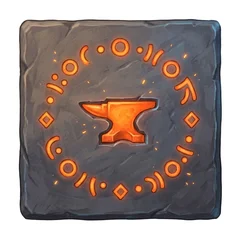
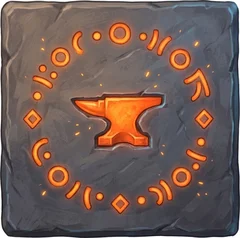
Dice Arena : Rune de l'enclume sans fond blanc ; ordre des prompts (version 20261114-132235)

diff --git a/essais/dice-arena/prompts.html b/essais/dice-arena/prompts.html
@@ -17,7 +17,7 @@ button{font-size:1em;padding:9px 16px;border-radius:10px;border:0;background:#f5
 .recus{columns:2;font-size:.85em;color:#9ff0b5}</style></head><body><main>
 <h1>Les images à faire pour la Guilde des Runes</h1><p class="sous">Une seule liste pour tout (menu, cartes, combats, Odyssée) · mise à jour le 14/11/2026</p>
 <div class="compte"><span>✅ Reçues : <b>191</b></span><span>⏳ Il reste : <b>8</b></span><span>Total : 199</span></div>
-<div class="maintenant"><h2>👉 À faire maintenant, dans cet ordre</h2><ol></ol>
+<div class="maintenant"><h2>👉 À faire maintenant, dans cet ordre</h2><ol><li><a href="#i-d-gobelin" onclick="ouvre('d-gobelin')">Défense · le Gobelin (rapide)</a></li><li><a href="#i-d-chauve" onclick="ouvre('d-chauve')">Défense · la Chauve-souris (vole)</a></li><li><a href="#i-rune-cor" onclick="ouvre('rune-cor')">Défense · la Rune de Gorm, le Grand Cor</a></li></ol>
 <p style="margin:.5em 0 0;font-size:.9em">Le reste peut attendre : ce sont les 5 images qui débloquent le plus de choses dans le jeu.</p></div>
 <div class="regle"><b>Pour chaque image :</b><ul><li>une <b>nouvelle conversation Gemini</b> ;</li><li>joindre <b>une seule image</b> : celle indiquée dans le cadre jaune (le plus souvent le portrait de Gorm) ;</li>
 <li>coller le prompt, ne rien retoucher : si l’image ne va pas, on refait un prompt de zéro ;</li><li>m’envoyer l’image en me donnant le <b>nom du fichier</b> indiqué : je la range et elle passe en ✅ ici.</li></ul></div><details id="s-menu-communs"><summary>✅ Menu · les pièces communes <span class="n">3 / 3 reçues</span></summary>
@@ -223,7 +223,7 @@ button{font-size:1em;padding:9px 16px;border-radius:10px;border:0;background:#f5
 <div class="note">💬 À REFAIRE (13/11 soir, remarque de l'utilisateur) : pas assez de magie ni de grandiose ; prompt corrigé.</div></div><div class="bloc ok" id="i-inv-acte2"><img src="prompts-recu/inv-acte2.webp?v=-637785471" alt=""><h3>✅ Portail · Invasion Acte II, le Réveil des Primordiaux</h3><div class="fichier">Nom du fichier à m'envoyer : <b>inv-acte2</b></div>
 <div class="note">💬 À REFAIRE (13/11 soir, remarque de l'utilisateur) : pas assez de magie ni de grandiose ; prompt corrigé.</div></div><div class="bloc ok" id="i-inv-boss"><img src="prompts-recu/inv-boss.webp?v=-637785468" alt=""><h3>✅ Portail · Invasion, les grands boss</h3><div class="fichier">Nom du fichier à m'envoyer : <b>inv-boss</b></div>
 <div class="note">💬 À REFAIRE (13/11 soir, remarque de l'utilisateur) : pas assez de magie ni de grandiose ; prompt corrigé.</div></div><div class="bloc ok" id="i-mode-pantheon"><img src="prompts-recu/mode-pantheon.webp?v=-637785463" alt=""><h3>✅ Portail · Le Panthéon</h3><div class="fichier">Nom du fichier à m'envoyer : <b>mode-pantheon</b></div>
-<div class="note">💬 À REFAIRE (13/11 soir, remarque de l'utilisateur) : pas assez de magie ni de grandiose ; prompt corrigé.</div></div></details></details><details id="s-defense-enigme-13-11"><summary>Nouveautés du 13/11 · L’énigme du jour et la Défense de la porte <span class="n">7 / 10 reçues</span></summary>
+<div class="note">💬 À REFAIRE (13/11 soir, remarque de l'utilisateur) : pas assez de magie ni de grandiose ; prompt corrigé.</div></div></details></details><details id="s-defense-enigme-13-11" open><summary>Nouveautés du 13/11 · L’énigme du jour et la Défense de la porte <span class="n">7 / 10 reçues</span></summary>
 <p class="expl">Deux portails pour le menu, les monstres de la Défense (portraits ronds), le Titan de feu, les deux Runes et le fond du plateau.</p><div class="bloc" id="i-d-gobelin"><h3>Défense · le Gobelin (rapide)</h3><div class="fichier">Nom du fichier à m'envoyer : <b>d-gobelin</b></div>
 <div class="note">💬 À REFAIRE (14/11) : souriant et gentil ; c’est un ennemi : prompt durci.</div><div class="joindre">📎 Joignez seulement le portrait de Gorm (<a href="portraits/gorm.webp" target="_blank">télécharger</a>).</div><pre id="p-d-gobelin">Using the attached image ONLY as a strict style reference (same digital painted style, same soft outlines, same warm main light with cool magical blue highlights, same visible brush texture, same level of detail; do NOT copy the character), paint the portrait of a small skinny vicious GOBLIN raider sprinting straight at the viewer, green skin, big torn pointy ears, narrowed yellow eyes full of hatred, snarling mouth with sharp crooked teeth, a spiked wooden club raised to strike, dust clouds behind his feet, SQUARE 1:1 format, a bust portrait centered and filling the image, the head in the upper middle, a simple softly lit painted background of one color (no scenery details), no frame, no border, because it will be cropped into a circle (do NOT paint any medallion, ring or frame yourself). Background: plain warm dusk brown with a faint threatening glow behind the creature. It is an ENEMY that attacks the hero: hostile glare straight at the viewer, aggressive pose ready to strike, teeth or claws or weapon shown, NEVER smiling, never cute, never friendly, never calm or wise; dangerous but readable for all ages, no gore, no blood. Generous readable shapes that stay clear at small size on a phone, rich saturated colors with strong contrast, dramatic lighting, epic mood; no gore, no blood. No text, no letters, no numbers, no logo, no signature, no watermark, no religious symbol. Any magic glyph or rune mark must be a purely ABSTRACT shape (dot, small circle, tiny diamond, short curve); NEVER a letter of any alphabet (no Latin letter, no R, no Nordic runic letter), nowhere in the image.</pre><button onclick="copier('d-gobelin', this)">Copier le prompt</button></div><div class="bloc" id="i-d-chauve"><h3>Défense · la Chauve-souris (vole)</h3><div class="fichier">Nom du fichier à m'envoyer : <b>d-chauve</b></div>
 <div class="note">💬 À REFAIRE (14/11) : souriante et mignonne ; c’est un ennemi : prompt durci.</div><div class="joindre">📎 Joignez seulement le portrait de Gorm (<a href="portraits/gorm.webp" target="_blank">télécharger</a>).</div><pre id="p-d-chauve">Using the attached image ONLY as a strict style reference (same digital painted style, same soft outlines, same warm main light with cool magical blue highlights, same visible brush texture, same level of detail; do NOT copy the character), paint the portrait of a vicious CAVE BAT diving at the viewer, wide torn leathery wings spread, glowing red eyes, mouth wide open screeching with long sharp fangs, claws stretched forward, SQUARE 1:1 format, a bust portrait centered and filling the image, the head in the upper middle, a simple softly lit painted background of one color (no scenery details), no frame, no border, because it will be cropped into a circle (do NOT paint any medallion, ring or frame yourself). Background: plain warm dusk brown with a faint threatening glow behind the creature. It is an ENEMY that attacks the hero: hostile glare straight at the viewer, aggressive pose ready to strike, teeth or claws or weapon shown, NEVER smiling, never cute, never friendly, never calm or wise; dangerous but readable for all ages, no gore, no blood. Generous readable shapes that stay clear at small size on a phone, rich saturated colors with strong contrast, dramatic lighting, epic mood; no gore, no blood. No text, no letters, no numbers, no logo, no signature, no watermark, no religious symbol. Any magic glyph or rune mark must be a purely ABSTRACT shape (dot, small circle, tiny diamond, short curve); NEVER a letter of any alphabet (no Latin letter, no R, no Nordic runic letter), nowhere in the image.</pre><button onclick="copier('d-chauve', this)">Copier le prompt</button></div><div class="bloc" id="i-rune-cor"><h3>Défense · la Rune de Gorm, le Grand Cor</h3><div class="fichier">Nom du fichier à m'envoyer : <b>rune-cor</b></div>

diff --git a/labo/guilde/prompts.html b/labo/guilde/prompts.html
@@ -17,7 +17,7 @@ button{font-size:1em;padding:9px 16px;border-radius:10px;border:0;background:#f5
 .recus{columns:2;font-size:.85em;color:#9ff0b5}</style></head><body><main>
 <h1>Les images à faire pour la Guilde des Runes</h1><p class="sous">Une seule liste pour tout (menu, cartes, combats, Odyssée) · mise à jour le 14/11/2026</p>
 <div class="compte"><span>✅ Reçues : <b>191</b></span><span>⏳ Il reste : <b>8</b></span><span>Total : 199</span></div>
-<div class="maintenant"><h2>👉 À faire maintenant, dans cet ordre</h2><ol></ol>
+<div class="maintenant"><h2>👉 À faire maintenant, dans cet ordre</h2><ol><li><a href="#i-d-gobelin" onclick="ouvre('d-gobelin')">Défense · le Gobelin (rapide)</a></li><li><a href="#i-d-chauve" onclick="ouvre('d-chauve')">Défense · la Chauve-souris (vole)</a></li><li><a href="#i-rune-cor" onclick="ouvre('rune-cor')">Défense · la Rune de Gorm, le Grand Cor</a></li></ol>
 <p style="margin:.5em 0 0;font-size:.9em">Le reste peut attendre : ce sont les 5 images qui débloquent le plus de choses dans le jeu.</p></div>
 <div class="regle"><b>Pour chaque image :</b><ul><li>une <b>nouvelle conversation Gemini</b> ;</li><li>joindre <b>une seule image</b> : celle indiquée dans le cadre jaune (le plus souvent le portrait de Gorm) ;</li>
 <li>coller le prompt, ne rien retoucher : si l’image ne va pas, on refait un prompt de zéro ;</li><li>m’envoyer l’image en me donnant le <b>nom du fichier</b> indiqué : je la range et elle passe en ✅ ici.</li></ul></div><details id="s-menu-communs"><summary>✅ Menu · les pièces communes <span class="n">3 / 3 reçues</span></summary>
@@ -223,7 +223,7 @@ button{font-size:1em;padding:9px 16px;border-radius:10px;border:0;background:#f5
 <div class="note">💬 À REFAIRE (13/11 soir, remarque de l'utilisateur) : pas assez de magie ni de grandiose ; prompt corrigé.</div></div><div class="bloc ok" id="i-inv-acte2"><img src="prompts-recu/inv-acte2.webp?v=-637785471" alt=""><h3>✅ Portail · Invasion Acte II, le Réveil des Primordiaux</h3><div class="fichier">Nom du fichier à m'envoyer : <b>inv-acte2</b></div>
 <div class="note">💬 À REFAIRE (13/11 soir, remarque de l'utilisateur) : pas assez de magie ni de grandiose ; prompt corrigé.</div></div><div class="bloc ok" id="i-inv-boss"><img src="prompts-recu/inv-boss.webp?v=-637785468" alt=""><h3>✅ Portail · Invasion, les grands boss</h3><div class="fichier">Nom du fichier à m'envoyer : <b>inv-boss</b></div>
 <div class="note">💬 À REFAIRE (13/11 soir, remarque de l'utilisateur) : pas assez de magie ni de grandiose ; prompt corrigé.</div></div><div class="bloc ok" id="i-mode-pantheon"><img src="prompts-recu/mode-pantheon.webp?v=-637785463" alt=""><h3>✅ Portail · Le Panthéon</h3><div class="fichier">Nom du fichier à m'envoyer : <b>mode-pantheon</b></div>
-<div class="note">💬 À REFAIRE (13/11 soir, remarque de l'utilisateur) : pas assez de magie ni de grandiose ; prompt corrigé.</div></div></details></details><details id="s-defense-enigme-13-11"><summary>Nouveautés du 13/11 · L’énigme du jour et la Défense de la porte <span class="n">7 / 10 reçues</span></summary>
+<div class="note">💬 À REFAIRE (13/11 soir, remarque de l'utilisateur) : pas assez de magie ni de grandiose ; prompt corrigé.</div></div></details></details><details id="s-defense-enigme-13-11" open><summary>Nouveautés du 13/11 · L’énigme du jour et la Défense de la porte <span class="n">7 / 10 reçues</span></summary>
 <p class="expl">Deux portails pour le menu, les monstres de la Défense (portraits ronds), le Titan de feu, les deux Runes et le fond du plateau.</p><div class="bloc" id="i-d-gobelin"><h3>Défense · le Gobelin (rapide)</h3><div class="fichier">Nom du fichier à m'envoyer : <b>d-gobelin</b></div>
 <div class="note">💬 À REFAIRE (14/11) : souriant et gentil ; c’est un ennemi : prompt durci.</div><div class="joindre">📎 Joignez seulement le portrait de Gorm (<a href="portraits/gorm.webp" target="_blank">télécharger</a>).</div><pre id="p-d-gobelin">Using the attached image ONLY as a strict style reference (same digital painted style, same soft outlines, same warm main light with cool magical blue highlights, same visible brush texture, same level of detail; do NOT copy the character), paint the portrait of a small skinny vicious GOBLIN raider sprinting straight at the viewer, green skin, big torn pointy ears, narrowed yellow eyes full of hatred, snarling mouth with sharp crooked teeth, a spiked wooden club raised to strike, dust clouds behind his feet, SQUARE 1:1 format, a bust portrait centered and filling the image, the head in the upper middle, a simple softly lit painted background of one color (no scenery details), no frame, no border, because it will be cropped into a circle (do NOT paint any medallion, ring or frame yourself). Background: plain warm dusk brown with a faint threatening glow behind the creature. It is an ENEMY that attacks the hero: hostile glare straight at the viewer, aggressive pose ready to strike, teeth or claws or weapon shown, NEVER smiling, never cute, never friendly, never calm or wise; dangerous but readable for all ages, no gore, no blood. Generous readable shapes that stay clear at small size on a phone, rich saturated colors with strong contrast, dramatic lighting, epic mood; no gore, no blood. No text, no letters, no numbers, no logo, no signature, no watermark, no religious symbol. Any magic glyph or rune mark must be a purely ABSTRACT shape (dot, small circle, tiny diamond, short curve); NEVER a letter of any alphabet (no Latin letter, no R, no Nordic runic letter), nowhere in the image.</pre><button onclick="copier('d-gobelin', this)">Copier le prompt</button></div><div class="bloc" id="i-d-chauve"><h3>Défense · la Chauve-souris (vole)</h3><div class="fichier">Nom du fichier à m'envoyer : <b>d-chauve</b></div>
 <div class="note">💬 À REFAIRE (14/11) : souriante et mignonne ; c’est un ennemi : prompt durci.</div><div class="joindre">📎 Joignez seulement le portrait de Gorm (<a href="portraits/gorm.webp" target="_blank">télécharger</a>).</div><pre id="p-d-chauve">Using the attached image ONLY as a strict style reference (same digital painted style, same soft outlines, same warm main light with cool magical blue highlights, same visible brush texture, same level of detail; do NOT copy the character), paint the portrait of a vicious CAVE BAT diving at the viewer, wide torn leathery wings spread, glowing red eyes, mouth wide open screeching with long sharp fangs, claws stretched forward, SQUARE 1:1 format, a bust portrait centered and filling the image, the head in the upper middle, a simple softly lit painted background of one color (no scenery details), no frame, no border, because it will be cropped into a circle (do NOT paint any medallion, ring or frame yourself). Background: plain warm dusk brown with a faint threatening glow behind the creature. It is an ENEMY that attacks the hero: hostile glare straight at the viewer, aggressive pose ready to strike, teeth or claws or weapon shown, NEVER smiling, never cute, never friendly, never calm or wise; dangerous but readable for all ages, no gore, no blood. Generous readable shapes that stay clear at small size on a phone, rich saturated colors with strong contrast, dramatic lighting, epic mood; no gore, no blood. No text, no letters, no numbers, no logo, no signature, no watermark, no religious symbol. Any magic glyph or rune mark must be a purely ABSTRACT shape (dot, small circle, tiny diamond, short curve); NEVER a letter of any alphabet (no Latin letter, no R, no Nordic runic letter), nowhere in the image.</pre><button onclick="copier('d-chauve', this)">Copier le prompt</button></div><div class="bloc" id="i-rune-cor"><h3>Défense · la Rune de Gorm, le Grand Cor</h3><div class="fichier">Nom du fichier à m'envoyer : <b>rune-cor</b></div>

diff --git a/essais/dice-arena/duel.html b/essais/dice-arena/duel.html
@@ -646,7 +646,7 @@
 <script>
 // Version de la page : à chaque mise en ligne, outils/publier.sh change VERSION et version.txt.
 // Si le téléphone a gardé une ancienne page en mémoire, elle se recharge toute seule sur la nouvelle.
-const VERSION = '20261114-132141';
+const VERSION = '20261114-132235';
 fetch('version.txt?t=' + Date.now(), { cache:'no-store' }).then(r => r.ok ? r.text() : '').then(v => {
   v = (v || '').trim();
   if (v && v !== VERSION && !sessionStorage.getItem('recharge-' + v)) { sessionStorage.setItem('recharge-' + v, '1'); { const q = new URLSearchParams(location.search); q.set('v', v); location.replace('duel.html?' + q); } }
@@ -665,11 +665,11 @@ function verifieVersion() {
 setInterval(verifieVersion, 120000);
 document.addEventListener('visibilitychange', () => { if (!document.hidden) verifieVersion(); });
 </script>
-<script src="cartes.js?v=20261114-132141"></script>
-<script src="musique.js?v=20261114-132141"></script>
-<script src="donnees.js?v=20261114-132141"></script>
-<script src="odyssee.js?v=20261114-132141"></script>
-<script src="chronique.js?v=20261114-132141"></script>
+<script src="cartes.js?v=20261114-132235"></script>
+<script src="musique.js?v=20261114-132235"></script>
+<script src="donnees.js?v=20261114-132235"></script>
+<script src="odyssee.js?v=20261114-132235"></script>
+<script src="chronique.js?v=20261114-132235"></script>
 <script>
 // =============================================================================================== moteur
 let S = null;
@@ -2099,14 +2099,14 @@ async function joueFX() {
 // toucher l'écran pendant les animations les accélère
 document.addEventListener('pointerdown', () => { if (fxOn && !(S && S.tuto)) fxVite = .5; }, true); // 14/11 : plus d'accélération dans le tutoriel
 </script>
-<script src="profil.js?v=20261114-132141"></script>
-<script src="pantheon.js?v=20261114-132141"></script>
-<script src="tuto.js?v=20261114-132141"></script>
-<script src="deux.js?v=20261114-132141"></script>
-<script src="invasion.js?v=20261114-132141"></script>
-<script src="enigme-table.js?v=20261114-132141"></script>
-<script src="forge.js?v=20261114-132141"></script>
-<script src="semaine.js?v=20261114-132141"></script>
-<script src="enigme.js?v=20261114-132141"></script>
+<script src="profil.js?v=20261114-132235"></script>
+<script src="pantheon.js?v=20261114-132235"></script>
+<script src="tuto.js?v=20261114-132235"></script>
+<script src="deux.js?v=20261114-132235"></script>
+<script src="invasion.js?v=20261114-132235"></script>
+<script src="enigme-table.js?v=20261114-132235"></script>
+<script src="forge.js?v=20261114-132235"></script>
+<script src="semaine.js?v=20261114-132235"></script>
+<script src="enigme.js?v=20261114-132235"></script>
 </body>
 </html>

diff --git a/labo/guilde/duel.html b/labo/guilde/duel.html
@@ -646,7 +646,7 @@
 <script>
 // Version de la page : à chaque mise en ligne, outils/publier.sh change VERSION et version.txt.
 // Si le téléphone a gardé une ancienne page en mémoire, elle se recharge toute seule sur la nouvelle.
-const VERSION = '20261114-132141';
+const VERSION = '20261114-132235';
 fetch('version.txt?t=' + Date.now(), { cache:'no-store' }).then(r => r.ok ? r.text() : '').then(v => {
   v = (v || '').trim();
   if (v && v !== VERSION && !sessionStorage.getItem('recharge-' + v)) { sessionStorage.setItem('recharge-' + v, '1'); { const q = new URLSearchParams(location.search); q.set('v', v); location.replace('duel.html?' + q); } }
@@ -665,11 +665,11 @@ function verifieVersion() {
 setInterval(verifieVersion, 120000);
 document.addEventListener('visibilitychange', () => { if (!document.hidden) verifieVersion(); });
 </script>
-<script src="cartes.js?v=20261114-132141"></script>
-<script src="musique.js?v=20261114-132141"></script>
-<script src="donnees.js?v=20261114-132141"></script>
-<script src="odyssee.js?v=20261114-132141"></script>
-<script src="chronique.js?v=20261114-132141"></script>
+<script src="cartes.js?v=20261114-132235"></script>
+<script src="musique.js?v=20261114-132235"></script>
+<script src="donnees.js?v=20261114-132235"></script>
+<script src="odyssee.js?v=20261114-132235"></script>
+<script src="chronique.js?v=20261114-132235"></script>
 <script>
 // =============================================================================================== moteur
 let S = null;
@@ -2099,14 +2099,14 @@ async function joueFX() {
 // toucher l'écran pendant les animations les accélère
 document.addEventListener('pointerdown', () => { if (fxOn && !(S && S.tuto)) fxVite = .5; }, true); // 14/11 : plus d'accélération dans le tutoriel
 </script>
-<script src="profil.js?v=20261114-132141"></script>
-<script src="pantheon.js?v=20261114-132141"></script>
-<script src="tuto.js?v=20261114-132141"></script>
-<script src="deux.js?v=20261114-132141"></script>
-<script src="invasion.js?v=20261114-132141"></script>
-<script src="enigme-table.js?v=20261114-132141"></script>
-<script src="forge.js?v=20261114-132141"></script>
-<script src="semaine.js?v=20261114-132141"></script>
-<script src="enigme.js?v=20261114-132141"></script>
+<script src="profil.js?v=20261114-132235"></script>
+<script src="pantheon.js?v=20261114-132235"></script>
+<script src="tuto.js?v=20261114-132235"></script>
+<script src="deux.js?v=20261114-132235"></script>
+<script src="invasion.js?v=20261114-132235"></script>
+<script src="enigme-table.js?v=20261114-132235"></script>
+<script src="forge.js?v=20261114-132235"></script>
+<script src="semaine.js?v=20261114-132235"></script>
+<script src="enigme.js?v=20261114-132235"></script>
 </body>
 </html>

diff --git a/essais/dice-arena/defense.html b/essais/dice-arena/defense.html
@@ -73,10 +73,10 @@
 <body>
 <div id="app"></div>
 <div id="fen"></div>
-<script src="cartes.js?v=20261114-132141"></script>
-<script src="musique.js?v=20261114-132141"></script>
-<script src="donnees.js?v=20261114-132141"></script>
-<script src="defense-moteur.js?v=20261114-132141"></script>
+<script src="cartes.js?v=20261114-132235"></script>
+<script src="musique.js?v=20261114-132235"></script>
+<script src="donnees.js?v=20261114-132235"></script>
+<script src="defense-moteur.js?v=20261114-132235"></script>
 <script>
 // =============================================================================================== LA DÉFENSE DE LA PORTE · l'ÉCRAN (13/11)
 // Règles : defense-proposition.html (validées le 13/11). Moteur : defense-moteur.js.
@@ -107,7 +107,7 @@ function vagueAnnonce() { const v = D.fx.find(f => f.t === 'vague'); if (v) GM.s
 // ---------------------------------------------------------------- le dessin
 // 14/11 : images Gemini reçues (sans image, l'émoji reste) ; Gobelin, Chauve-souris et Rune du Cor à refaire
 const IMG_D = { sanglier:'portraits/d-sanglier.webp?v=1', bouclier:'portraits/d-bouclier.webp?v=1', titan:'portraits/m-titan.webp?v=1' };
-const RUNE_IMG = { maelle:'portraits/rune-enclume.webp?v=1' };
+const RUNE_IMG = { maelle:'portraits/rune-enclume.webp?v=2' };
 function rendu() {
   if (!D) return accueil();
   const H = DHEROS[D.heros], vs = sel.map(d => d.v);

diff --git a/labo/guilde/defense.html b/labo/guilde/defense.html
@@ -73,10 +73,10 @@
 <body>
 <div id="app"></div>
 <div id="fen"></div>
-<script src="cartes.js?v=20261114-132141"></script>
-<script src="musique.js?v=20261114-132141"></script>
-<script src="donnees.js?v=20261114-132141"></script>
-<script src="defense-moteur.js?v=20261114-132141"></script>
+<script src="cartes.js?v=20261114-132235"></script>
+<script src="musique.js?v=20261114-132235"></script>
+<script src="donnees.js?v=20261114-132235"></script>
+<script src="defense-moteur.js?v=20261114-132235"></script>
 <script>
 // =============================================================================================== LA DÉFENSE DE LA PORTE · l'ÉCRAN (13/11)
 // Règles : defense-proposition.html (validées le 13/11). Moteur : defense-moteur.js.
@@ -107,7 +107,7 @@ function vagueAnnonce() { const v = D.fx.find(f => f.t === 'vague'); if (v) GM.s
 // ---------------------------------------------------------------- le dessin
 // 14/11 : images Gemini reçues (sans image, l'émoji reste) ; Gobelin, Chauve-souris et Rune du Cor à refaire
 const IMG_D = { sanglier:'portraits/d-sanglier.webp?v=1', bouclier:'portraits/d-bouclier.webp?v=1', titan:'portraits/m-titan.webp?v=1' };
-const RUNE_IMG = { maelle:'portraits/rune-enclume.webp?v=1' };
+const RUNE_IMG = { maelle:'portraits/rune-enclume.webp?v=2' };
 function rendu() {
   if (!D) return accueil();
   const H = DHEROS[D.heros], vs = sel.map(d => d.v);

diff --git a/essais/dice-arena/essai-cartes.html b/essais/dice-arena/essai-cartes.html
@@ -1,8 +1,8 @@
 <!doctype html><html lang="fr"><head><meta charset="utf-8"><meta name="viewport" content="width=device-width, initial-scale=1"><meta name="robots" content="noindex">
 <title>Essai des cartes</title><style>body{margin:0;background:#15132b;color:#fff;font-family:Georgia,serif}.g{display:flex;flex-wrap:wrap;gap:14px;justify-content:center;padding:16px}</style></head><body>
 <div class="g" id="g"></div>
-<script src="donnees.js"></script><script src="cartes.js?v=20261114-132141"></script>
+<script src="donnees.js"></script><script src="cartes.js?v=20261114-132235"></script>
 <script>document.head.insertAdjacentHTML('beforeend', '<style>' + CSS_CARTE + '</style>');
 const ks = (new URLSearchParams(location.search).get('k') || 'seve,racines,faon,lien').split(',');
-document.getElementById('g').innerHTML = ks.map(k => carteGuilde(k, { heros:'pip', art:'portraits/pip.webp', w:+(new URLSearchParams(location.search).get('w') || 216) })).join('');</script><script src="musique.js?v=20261114-132141"></script>
+document.getElementById('g').innerHTML = ks.map(k => carteGuilde(k, { heros:'pip', art:'portraits/pip.webp', w:+(new URLSearchParams(location.search).get('w') || 216) })).join('');</script><script src="musique.js?v=20261114-132235"></script>
 </body></html>

diff --git a/labo/guilde/essai-cartes.html b/labo/guilde/essai-cartes.html
@@ -1,8 +1,8 @@
 <!doctype html><html lang="fr"><head><meta charset="utf-8"><meta name="viewport" content="width=device-width, initial-scale=1"><meta name="robots" content="noindex">
 <title>Essai des cartes</title><style>body{margin:0;background:#15132b;color:#fff;font-family:Georgia,serif}.g{display:flex;flex-wrap:wrap;gap:14px;justify-content:center;padding:16px}</style></head><body>
 <div class="g" id="g"></div>
-<script src="donnees.js"></script><script src="cartes.js?v=20261114-132141"></script>
+<script src="donnees.js"></script><script src="cartes.js?v=20261114-132235"></script>
 <script>document.head.insertAdjacentHTML('beforeend', '<style>' + CSS_CARTE + '</style>');
 const ks = (new URLSearchParams(location.search).get('k') || 'seve,racines,faon,lien').split(',');
-document.getElementById('g').innerHTML = ks.map(k => carteGuilde(k, { heros:'pip', art:'portraits/pip.webp', w:+(new URLSearchParams(location.search).get('w') || 216) })).join('');</script><script src="musique.js?v=20261114-132141"></script>
+document.getElementById('g').innerHTML = ks.map(k => carteGuilde(k, { heros:'pip', art:'portraits/pip.webp', w:+(new URLSearchParams(location.search).get('w') || 216) })).join('');</script><script src="musique.js?v=20261114-132235"></script>
 </body></html>

diff --git a/essais/dice-arena/menu.html b/essais/dice-arena/menu.html
@@ -8,7 +8,7 @@
 <title>La Guilde des Runes</title>
 <script>
 // Même mécanisme que le Duel : une nouvelle version = rechargement tout seul à l'ouverture (publier.sh change VERSION).
-const VERSION = '20261114-132141';
+const VERSION = '20261114-132235';
 fetch('version.txt?t=' + Date.now(), { cache:'no-store' }).then(r => r.ok ? r.text() : '').then(v => {
   v = (v || '').trim();
   if (v && v !== VERSION && !sessionStorage.getItem('recharge-menu-' + v)) { sessionStorage.setItem('recharge-menu-' + v, '1'); location.replace('menu.html?v=' + v); }
@@ -188,9 +188,9 @@ fetch('version.txt?t=' + Date.now(), { cache:'no-store' }).then(r => r.ok ? r.te
 </div>
 <div id="flash"></div>
 
-<script src="semaine.js?v=20261114-132141"></script>
-<script src="musique.js?v=20261114-132141"></script>
-<script src="donnees.js?v=20261114-132141"></script>
+<script src="semaine.js?v=20261114-132235"></script>
+<script src="musique.js?v=20261114-132235"></script>
+<script src="donnees.js?v=20261114-132235"></script>
 <script>
 // ciel étoilé + runes du portail (symboles, pas des lettres), aux couleurs des héros
 const ciel = document.getElementById('ciel');

diff --git a/labo/guilde/menu.html b/labo/guilde/menu.html
@@ -8,7 +8,7 @@
 <title>La Guilde des Runes</title>
 <script>
 // Même mécanisme que le Duel : une nouvelle version = rechargement tout seul à l'ouverture (publier.sh change VERSION).
-const VERSION = '20261114-132141';
+const VERSION = '20261114-132235';
 fetch('version.txt?t=' + Date.now(), { cache:'no-store' }).then(r => r.ok ? r.text() : '').then(v => {
   v = (v || '').trim();
   if (v && v !== VERSION && !sessionStorage.getItem('recharge-menu-' + v)) { sessionStorage.setItem('recharge-menu-' + v, '1'); location.replace('menu.html?v=' + v); }
@@ -188,9 +188,9 @@ fetch('version.txt?t=' + Date.now(), { cache:'no-store' }).then(r => r.ok ? r.te
 </div>
 <div id="flash"></div>
 
-<script src="semaine.js?v=20261114-132141"></script>
-<script src="musique.js?v=20261114-132141"></script>
-<script src="donnees.js?v=20261114-132141"></script>
+<script src="semaine.js?v=20261114-132235"></script>
+<script src="musique.js?v=20261114-132235"></script>
+<script src="donnees.js?v=20261114-132235"></script>
 <script>
 // ciel étoilé + runes du portail (symboles, pas des lettres), aux couleurs des héros
 const ciel = document.getElementById('ciel');

diff --git a/essais/dice-arena/odyssee.html b/essais/dice-arena/odyssee.html
@@ -112,12 +112,12 @@ function verifieVersion() {
 setInterval(verifieVersion, 120000);
 document.addEventListener('visibilitychange', () => { if (!document.hidden) verifieVersion(); });
 </script>
-<script src="cartes.js?v=20261114-132141"></script>
-<script src="musique.js?v=20261114-132141"></script>
-<script src="donnees.js?v=20261114-132141"></script>
-<script src="odyssee.js?v=20261114-132141"></script>
-<script src="pantheon.js?v=20261114-132141"></script>
-<script src="chronique.js?v=20261114-132141"></script>
+<script src="cartes.js?v=20261114-132235"></script>
+<script src="musique.js?v=20261114-132235"></script>
+<script src="donnees.js?v=20261114-132235"></script>
+<script src="odyssee.js?v=20261114-132235"></script>
+<script src="pantheon.js?v=20261114-132235"></script>
+<script src="chronique.js?v=20261114-132235"></script>
 <script>
 // le moteur du Duel n'est pas chargé ici : les cartes de l'Odyssée appellent degats/soin seulement en combat (dans duel.html)
 const log = () => {}, degats = () => {}, soin = () => {}, altere = () => {}, invoque = () => {}, adv = () => ({}), fin = () => {};

diff --git a/labo/guilde/odyssee.html b/labo/guilde/odyssee.html
@@ -112,12 +112,12 @@ function verifieVersion() {
 setInterval(verifieVersion, 120000);
 document.addEventListener('visibilitychange', () => { if (!document.hidden) verifieVersion(); });
 </script>
-<script src="cartes.js?v=20261114-132141"></script>
-<script src="musique.js?v=20261114-132141"></script>
-<script src="donnees.js?v=20261114-132141"></script>
-<script src="odyssee.js?v=20261114-132141"></script>
-<script src="pantheon.js?v=20261114-132141"></script>
-<script src="chronique.js?v=20261114-132141"></script>
+<script src="cartes.js?v=20261114-132235"></script>
+<script src="musique.js?v=20261114-132235"></script>
+<script src="donnees.js?v=20261114-132235"></script>
+<script src="odyssee.js?v=20261114-132235"></script>
+<script src="pantheon.js?v=20261114-132235"></script>
+<script src="chronique.js?v=20261114-132235"></script>
 <script>
 // le moteur du Duel n'est pas chargé ici : les cartes de l'Odyssée appellent degats/soin seulement en combat (dans duel.html)
 const log = () => {}, degats = () => {}, soin = () => {}, altere = () => {}, invoque = () => {}, adv = () => ({}), fin = () => {};
